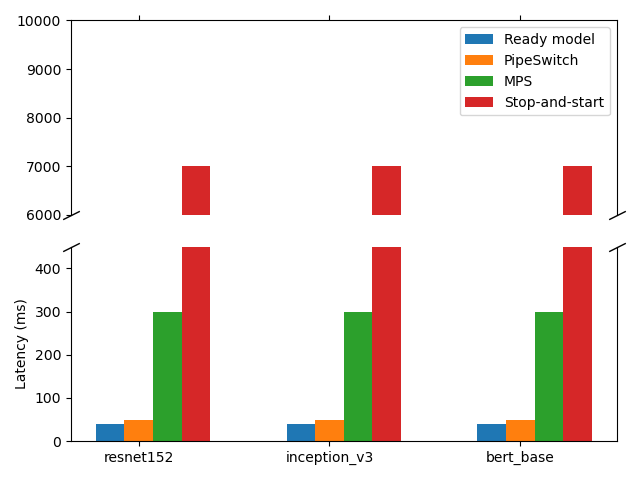
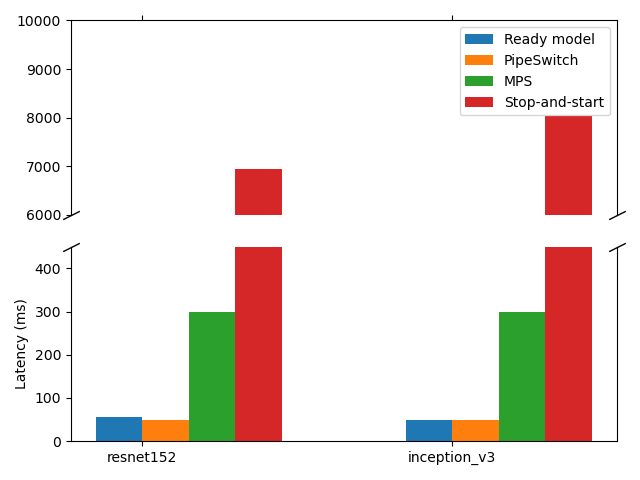
add auto script for fig5

diff --git a/experi_reproduce/plot_figure5.py b/experi_reproduce/plot_figure5.py
@@ -5,7 +5,7 @@ import subprocess
 import time
 from util.util import request_switch, request_infer, plot_cutted_grouped_barchart
 
-model_names = ['resnet152', 'inception_v3', 'bert_base']
+model_names = ['resnet152', 'inception_v3']
 batch_size = 8
 
 
@@ -23,16 +23,16 @@ def kill_start_server():
     return p
 
 def main():
-    # #ready_model
+    # ready_model
     # ready_model_latency_list = dict.fromkeys(model_names)
     # for m in model_names:
-    #     p = ready_server(m)
-    #     mean_latency = request_infer(m, batch_size)
-    #     p.kill()
-    #     ready_model_latency_list[m] = mean_latency
-    #     print("-------------------")
-    #     time.sleep(5)
-    # print(ready_model_latency_list)
+    #    p = ready_server(m)
+    #    time.sleep(10) # wait for the server to load its model
+    #    mean_latency = request_infer(m, batch_size)
+    #    p.kill()
+    #    ready_model_latency_list[m] = mean_latency
+    #    print("-------------------")
+    #    time.sleep(5)
 
     #pipeswitch
     # pipeswitch_latency_list = dict.fromkeys(model_names)
@@ -44,33 +44,46 @@ def main():
     #     pipeswitch_latency_list[m] = mean_latency
     #     print("-------------------")
     #     time.sleep(5)
-    # print(pipeswitch_latency_list)
+
+    # MPS
+    MPS_latency_list = dict.fromkeys(model_names)
+    p = kill_start_server()
+    time.sleep(10) # wait for the server to load its model
+    for m in model_names:
+        mean_latency = request_switch(m, batch_size)
+        MPS_latency_list[m] = mean_latency
+        print("-------------------")
+        time.sleep(5)
+
+
+    
 
     #kill_restart
-    # kill_restart_latency_list = dict.fromkeys(model_names)
-    # for m in model_names:
-    #     p = kill_start_server()
-    #     mean_latency = request_switch(m, batch_size)
-    #     p.kill()
-    #     kill_restart_latency_list[m] = mean_latency
-    #     print("-------------------")
-    #     time.sleep(5)
+    #kill_restart_latency_list = dict.fromkeys(model_names)
+    #p = kill_start_server()
+    #time.sleep(10) # wait for the server to load its model
+    #for m in model_names:
+    #    mean_latency = request_switch(m, batch_size)
+    #    kill_restart_latency_list[m] = mean_latency
+    #    print("-------------------")
+    #    time.sleep(5)
 
-    # # print("ready model : ", ready_model_latency_list)
-    # # print("pipeswitch : ", pipeswitch_latency_list)
-    # print("kill restart : ", kill_restart_latency_list)
+    #print("ready model : ", ready_model_latency_list)
+    #print("pipeswitch : ", pipeswitch_latency_list)
+    print("MPS : ", MPS_latency_list)
+    #print("kill restart : ", kill_restart_latency_list)
 
     # plot figure
-    ready_model_latency_list = dict.fromkeys(model_names, 40)
-    pipeswitch_latency_list = dict.fromkeys(model_names, 50)
-    mps_latency_list = dict.fromkeys(model_names, 300)
-    kill_restart_latency_list = dict.fromkeys(model_names, 7000)
-    grouped_data = {"Ready model":ready_model_latency_list.values(),
-                    "PipeSwitch":pipeswitch_latency_list.values(),
-                    "MPS":mps_latency_list.values(),
-                    "Stop-and-start":kill_restart_latency_list.values()}
-    plot_cutted_grouped_barchart(model_names, grouped_data, "Latency (ms)", 0.15, "figure5.png")
-    print("figure 5 is done.")
+    #ready_model_latency_list = dict.fromkeys(model_names, 40)
+    #pipeswitch_latency_list = dict.fromkeys(model_names, 50)
+    #mps_latency_list = dict.fromkeys(model_names, 300)
+    #kill_restart_latency_list = dict.fromkeys(model_names, 7000)
+    #grouped_data = {"Ready model":ready_model_latency_list.values(),
+    #                "PipeSwitch":pipeswitch_latency_list.values(),
+    #                "MPS":mps_latency_list.values(),
+    #                "Stop-and-start":kill_restart_latency_list.values()}
+    #plot_cutted_grouped_barchart(model_names, grouped_data, "Latency (ms)", 0.15, "figure5.png")
+    #print("figure 5 is done.")
 
 if __name__ == '__main__':
     main()

diff --git a/kill_restart/kill_restart.py b/kill_restart/kill_restart.py
@@ -39,7 +39,7 @@ def func_schedule(qin):
     while True:
         agent, model_name, data_b = qin.get()
         if active_worker is not None:
-            active_worker.kill()
+            active_worker.terminate()
             active_worker.join()
         active_worker = mp.Process(target=worker_compute, args=(agent, model_name, data_b))
         active_worker.start()

diff --git a/experi_reproduce/README.md b/experi_reproduce/README.md
@@ -31,6 +31,10 @@ You may see some EOFError message. Don't worry, it is caused by some dirty threa
 If the script completed successfully, you will find figure5.png in this directory, which looks like the figure below:
 ![image-figure5](./figure5.png)
 
+### Tips:
+- before you run the script, you may use `nvidia-smi` to check that the GPU is idle, and there is no other process on the GPU, or you may get `File exist` error which indicates the GPU memory is not enough.
+- before you run the script, you may also use `netstat -tlnp|grep 1234` to check there is no other process listening on the same address, or you may get `OSERROR: Address already in use`.
+
 ## Figure 6 : Throughput and latency under different scheduling cycles for ResNet on p3.2xlarge.
 
 ## Figure 7 : Effectiveness of pipelined model transmission.
